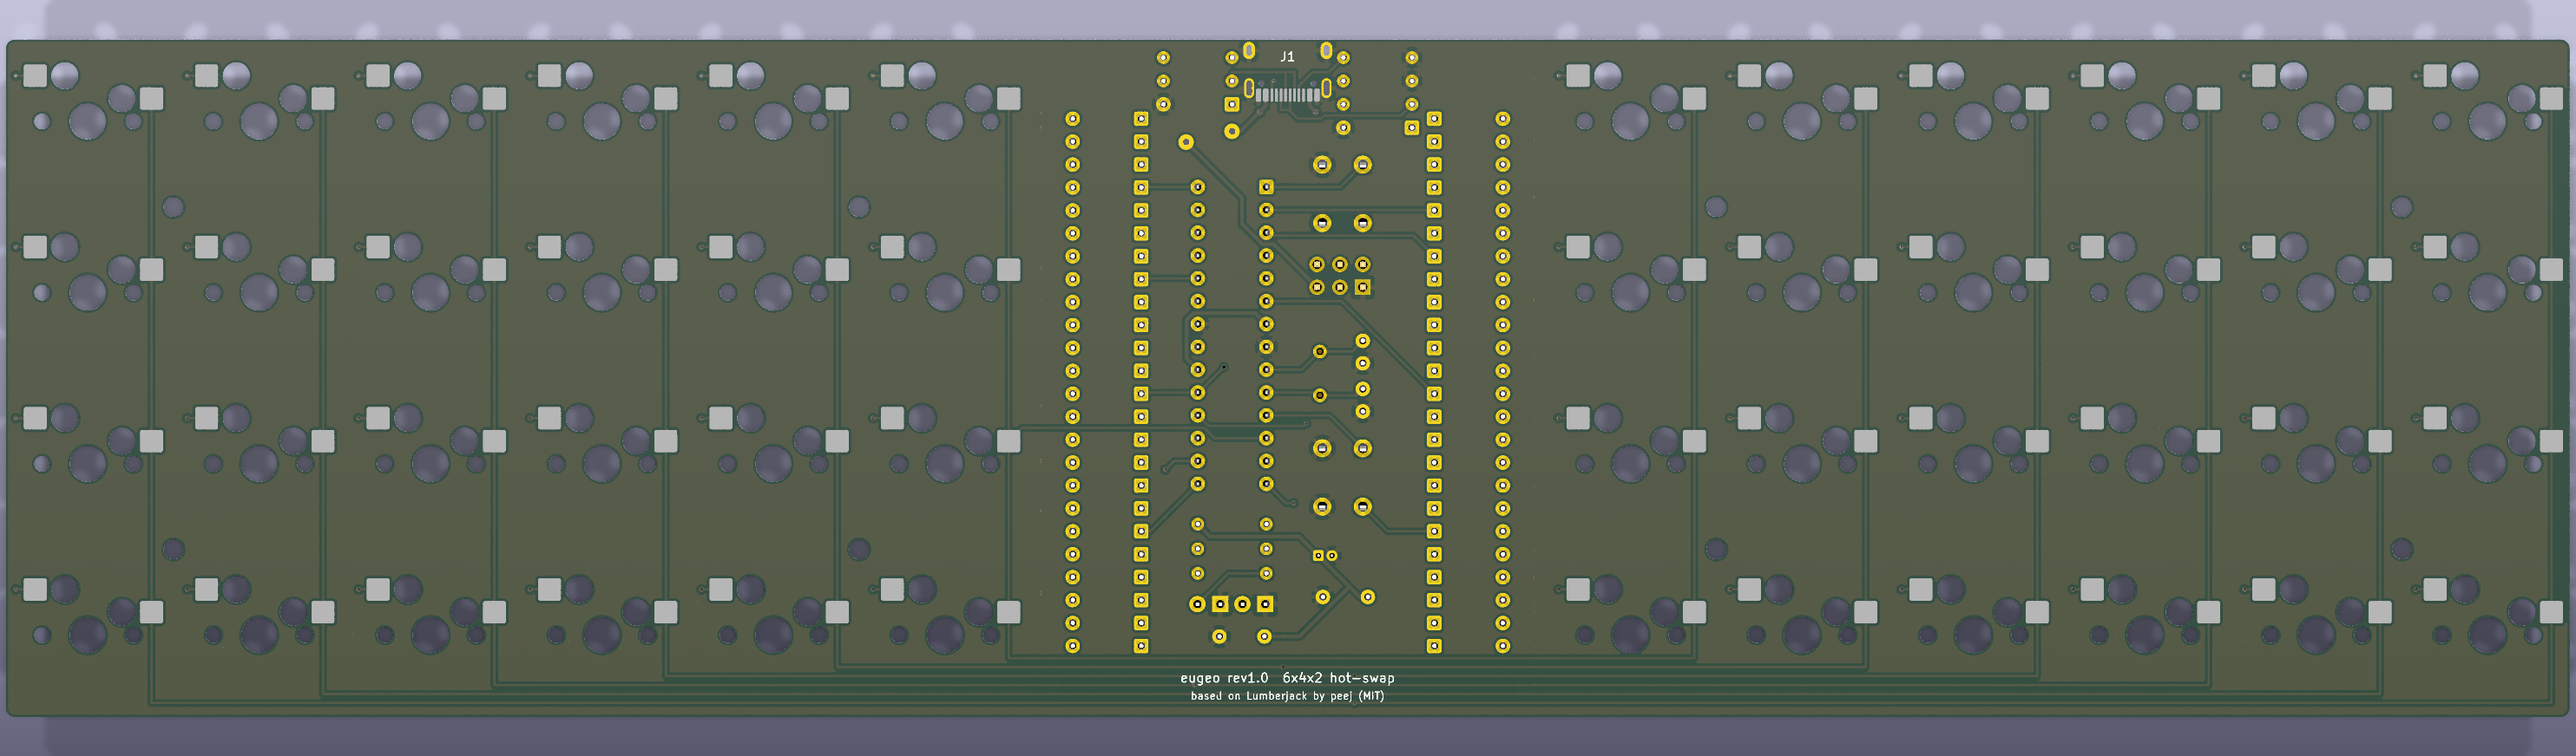
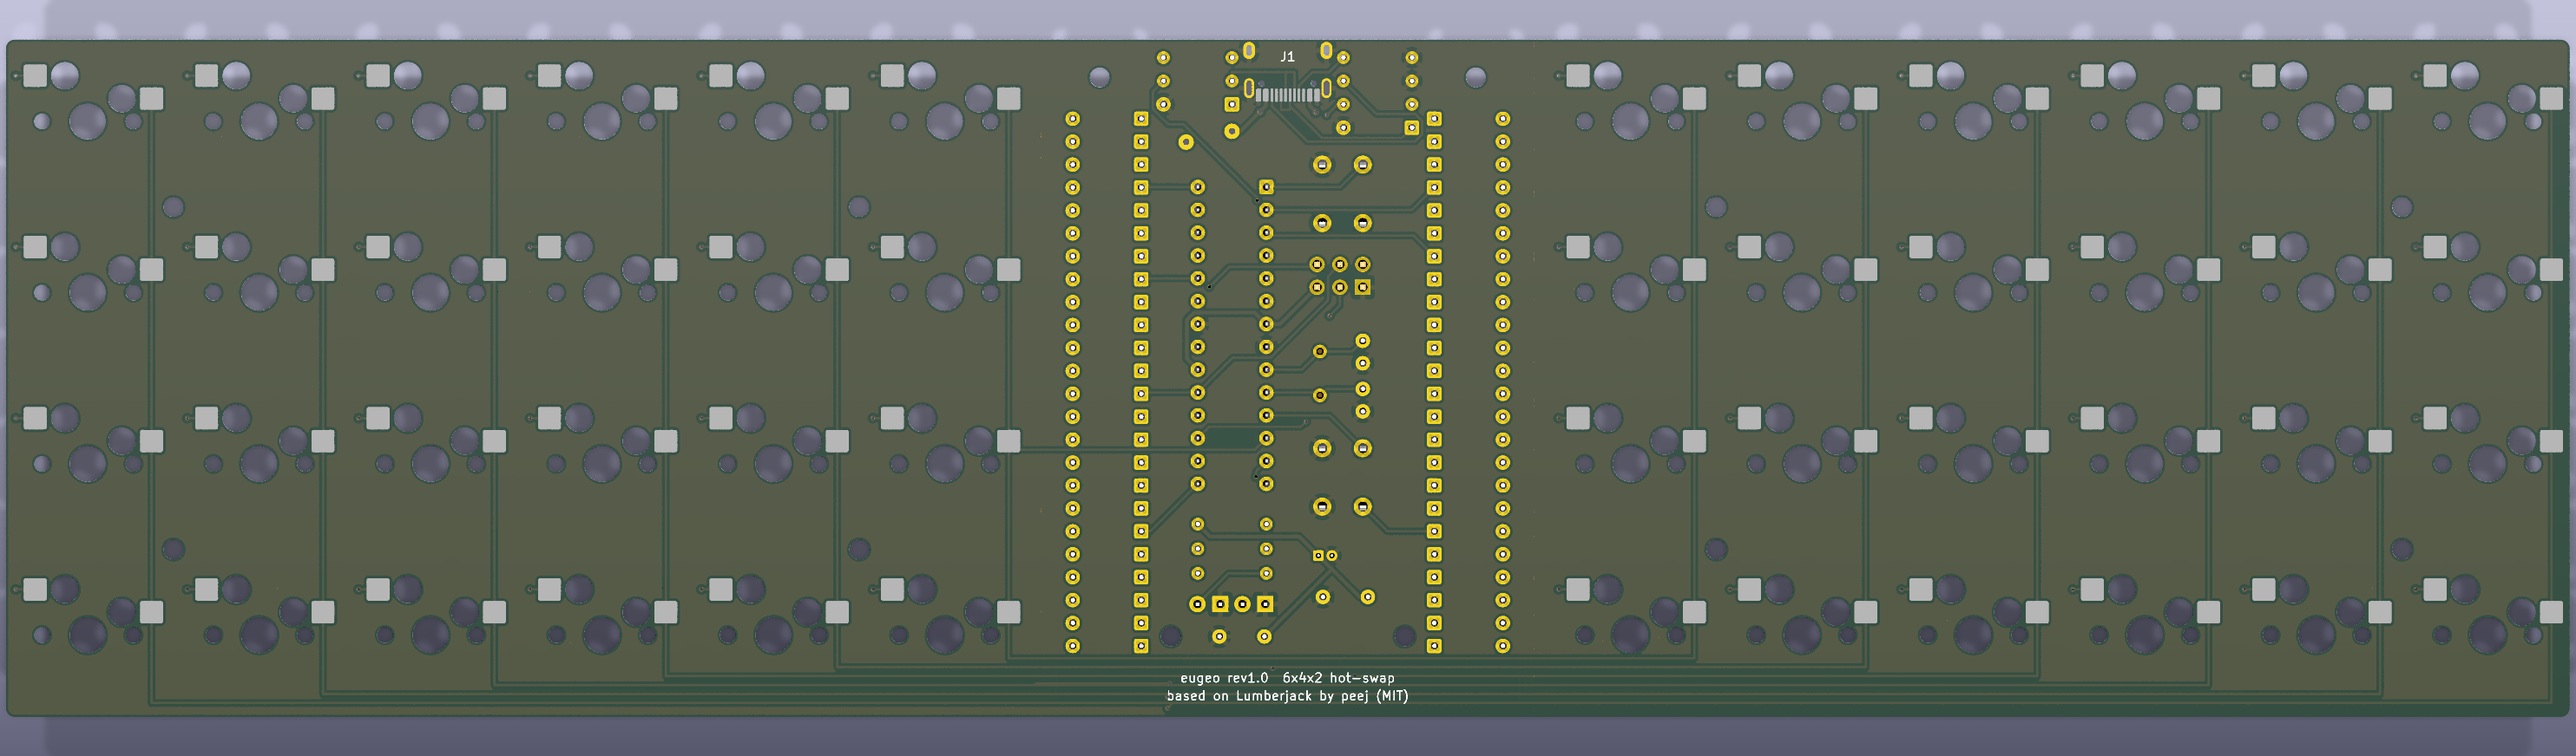
Add assembled renders and refresh PCB renders
Renders of the case with PCB, switch plates, centre cover and placeholder
switches/keycaps (scripts/preview_models.py), plus PCB renders of the
current board with the cover holes.

diff --git a/scripts/preview_models.py b/scripts/preview_models.py
@@ -1,0 +1,66 @@
+"""Illustrative parts for renders only (not for manufacturing): switch plates, simple MX
+switch tops and keycaps, in case coordinates.
+
+    .venv/bin/python scripts/preview_models.py /tmp/eugeo-preview
+    Blender -b -P scripts/render_case.py -- case/eugeo-case.stl /tmp/eugeo-pcb.glb out.png asm hero \
+        /tmp/eugeo-preview/plates.stl:plate /tmp/eugeo-preview/switches.stl:switch \
+        /tmp/eugeo-preview/keycaps.stl:keycap case/eugeo-cover.stl:acrylic
+"""
+import os
+import sys
+
+from build123d import (BuildPart, BuildSketch, Compound, Locations, Mode, Plane, Rectangle,
+                       RectangleRounded, export_stl, extrude, loft)
+
+sys.path.insert(0, os.path.dirname(__file__))
+import case as C  # noqa: E402
+import design  # noqa: E402
+
+
+def main(out):
+    os.makedirs(out, exist_ok=True)
+    x1, y1, x2, y2 = design.EDGE
+    half = design.KEY_X[5] + design.U / 2 - 0.425
+    plates = []
+    for a, b in ((x1, half), (x2 - (half - x1), x2)):
+        with BuildPart() as p:
+            with BuildSketch(Plane.XY.offset(C.PLATE_TOP - 1.5)):
+                with Locations(C.to_case((a + b) / 2, (y1 + y2) / 2)):
+                    RectangleRounded(b - a, y2 - y1, 1.0)
+                with Locations(*[C.to_case(kx, ky) for kx in design.KEY_X for ky in design.KEY_Y if a < kx < b]):
+                    RectangleRounded(14, 14, 0.5, mode=Mode.SUBTRACT)
+            extrude(amount=1.5)
+        plates.append(p.part)
+    switches, caps = [], []
+    for kx in design.KEY_X:
+        for ky in design.KEY_Y:
+            x, y = C.to_case(kx, ky)
+            with BuildPart() as s:                       # top housing + stem
+                with BuildSketch(Plane.XY.offset(C.PLATE_TOP)):
+                    with Locations((x, y)):
+                        RectangleRounded(15, 15, 1.0)
+                with BuildSketch(Plane.XY.offset(C.PLATE_TOP + 6)):
+                    with Locations((x, y)):
+                        RectangleRounded(11, 11, 1.0)
+                loft()
+                with BuildSketch(Plane.XY.offset(C.PLATE_TOP + 6)):
+                    with Locations((x, y)):
+                        Rectangle(4, 4)
+                extrude(amount=2)
+            switches.append(s.part)
+            with BuildPart() as k:                       # generic keycap
+                with BuildSketch(Plane.XY.offset(C.PLATE_TOP + 7)):
+                    with Locations((x, y)):
+                        RectangleRounded(18, 18, 1.5)
+                with BuildSketch(Plane.XY.offset(C.PLATE_TOP + 15)):
+                    with Locations((x, y)):
+                        RectangleRounded(13, 14, 2.0)
+                loft()
+            caps.append(k.part)
+    for name, parts in (("plates", plates), ("switches", switches), ("keycaps", caps)):
+        export_stl(Compound(parts), os.path.join(out, f"{name}.stl"))
+    print("wrote", out)
+
+
+if __name__ == "__main__":
+    main(sys.argv[1])

diff --git a/scripts/render_case.py b/scripts/render_case.py
@@ -2,7 +2,7 @@
 
     kicad-cli pcb export glb --subst-models -o /tmp/eugeo-pcb.glb eugeo.kicad_pcb
     Blender -b -P scripts/render_case.py -- case/eugeo-case.stl /tmp/eugeo-pcb.glb out.png asm iso [case/eugeo-cover.stl]
-(mode: case | asm, view: iso | front | top | side | back | bottom | badge | back34; extra STLs render as clear acrylic)
+(mode: case | asm, view: iso | hero | top | profile | back34 | badge | bottom; extra STLs as path[:acrylic|plate|keycap])
 """
 import bpy, sys, math, mathutils
 argv = sys.argv[sys.argv.index("--") + 1:]
@@ -33,15 +33,24 @@ if mode != "case":
     print("board", board.name, max(p.x for p in bb)-min(p.x for p in bb), max(p.y for p in bb)-min(p.y for p in bb), zmax-zmin)
     for r in root:
         r.location.x -= cx; r.location.y -= cy; r.location.z -= zmin
+MATERIALS = {   # name: (base colour, roughness, alpha)
+    "acrylic": ((0.9, 0.95, 1.0, 1), 0.05, 0.35),
+    "plate": ((0.06, 0.06, 0.07, 1), 0.5, 1.0),
+    "keycap": ((0.93, 0.92, 0.89, 1), 0.6, 1.0),
+    "switch": ((0.2, 0.2, 0.22, 1), 0.4, 1.0),
+}
 for extra in argv[5:]:
-    bpy.ops.wm.stl_import(filepath=extra)
+    path, _, kind = extra.partition(":")
+    bpy.ops.wm.stl_import(filepath=path)
     o = bpy.context.selected_objects[0]
-    m = bpy.data.materials.new("acrylic"); m.use_nodes = True
+    color, rough, alpha = MATERIALS[kind or "acrylic"]
+    m = bpy.data.materials.new(kind or "acrylic"); m.use_nodes = True
     bs = [n for n in m.node_tree.nodes if n.type == "BSDF_PRINCIPLED"][0]
-    bs.inputs["Base Color"].default_value = (0.9, 0.95, 1.0, 1)
-    bs.inputs["Roughness"].default_value = 0.05
-    bs.inputs["Alpha"].default_value = 0.35
-    m.surface_render_method = "BLENDED" if hasattr(m, "surface_render_method") else m.blend_method
+    bs.inputs["Base Color"].default_value = color
+    bs.inputs["Roughness"].default_value = rough
+    bs.inputs["Alpha"].default_value = alpha
+    if alpha < 1 and hasattr(m, "surface_render_method"):
+        m.surface_render_method = "BLENDED"
     o.data.materials.append(m)
 world = bpy.data.worlds.new("w"); sc.world = world; world.use_nodes = True
 [n for n in world.node_tree.nodes if n.type == "BACKGROUND"][0].inputs[0].default_value = (0.93, 0.94, 0.96, 1)
@@ -54,6 +63,9 @@ cam = bpy.data.cameras.new("cam"); cam.type = "ORTHO"; cam.ortho_scale = 330; ca
 co = bpy.data.objects.new("cam", cam); sc.collection.objects.link(co); sc.camera = co
 views = {"iso": ((-260, -420, 330), 330), "front": ((0, -800, 120), 320), "top": ((0, 0, 900), 320), "side": ((900, 0, 0), 120), "back": ((60, 700, 160), 330), "bottom": ((0.01, -120, -700), 330)}
 views["badge"] = ((-100, 400, 60), 75, (-100, 46.7, -1.6))
+views["hero"] = ((-300, -460, 300), 345, (0, 0, 0))
+views["profile"] = ((900, 0, 0), 110, (0, 0, -2))
+views["top"] = ((0.01, 0, 900), 320, (0, 0, 0))
 views["back34"] = ((-420, 520, 260), 190, (-40, 30, -5))
 v = views[argv[4] if len(argv) > 4 else "iso"]
 pos, scale = v[0], v[1]

diff --git a/README.md b/README.md
@@ -3,9 +3,15 @@
 6 キー × 4 行 × 2 ブロック（48 キー）のスルーホール・オーソリニア 40% キーボード PCB です。
 [Lumberjack](https://github.com/peej/lumberjack-keyboard)（Paul James 作、MIT License）をベースに、行を 1 段減らし、Kailh の MX 用ホットスワップソケットに対応させました。
 
+![eugeo](images/eugeo.png)
+
 ![PCB render](images/pcb-render-top.png)
 
-![Case](images/case-assembly.png)
+| 真上 | 背面 | 側面（6°） |
+|---|---|---|
+| ![top](images/eugeo-top.png) | ![back](images/eugeo-back.png) | ![profile](images/eugeo-profile.png) |
+
+組み上がりの画像のスイッチとキーキャップは、大きさと位置の目安として置いた簡易形状です（`scripts/preview_models.py`）。
 
 ## Lumberjack からの変更点
 
